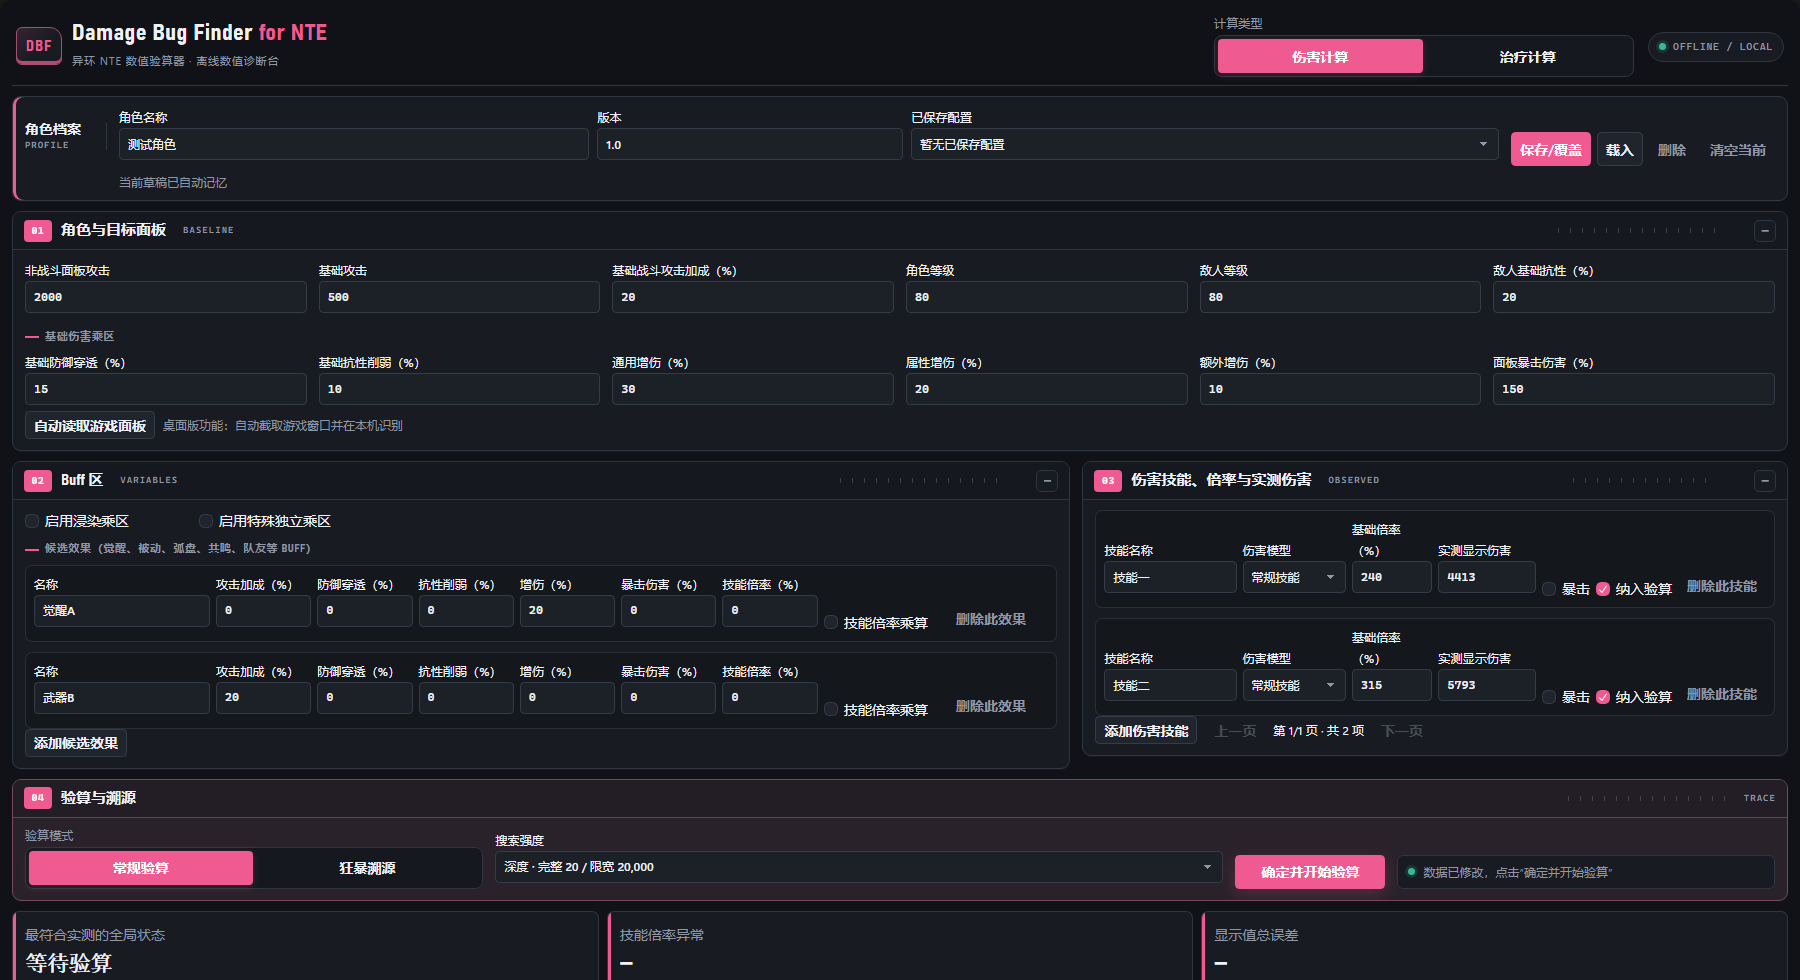
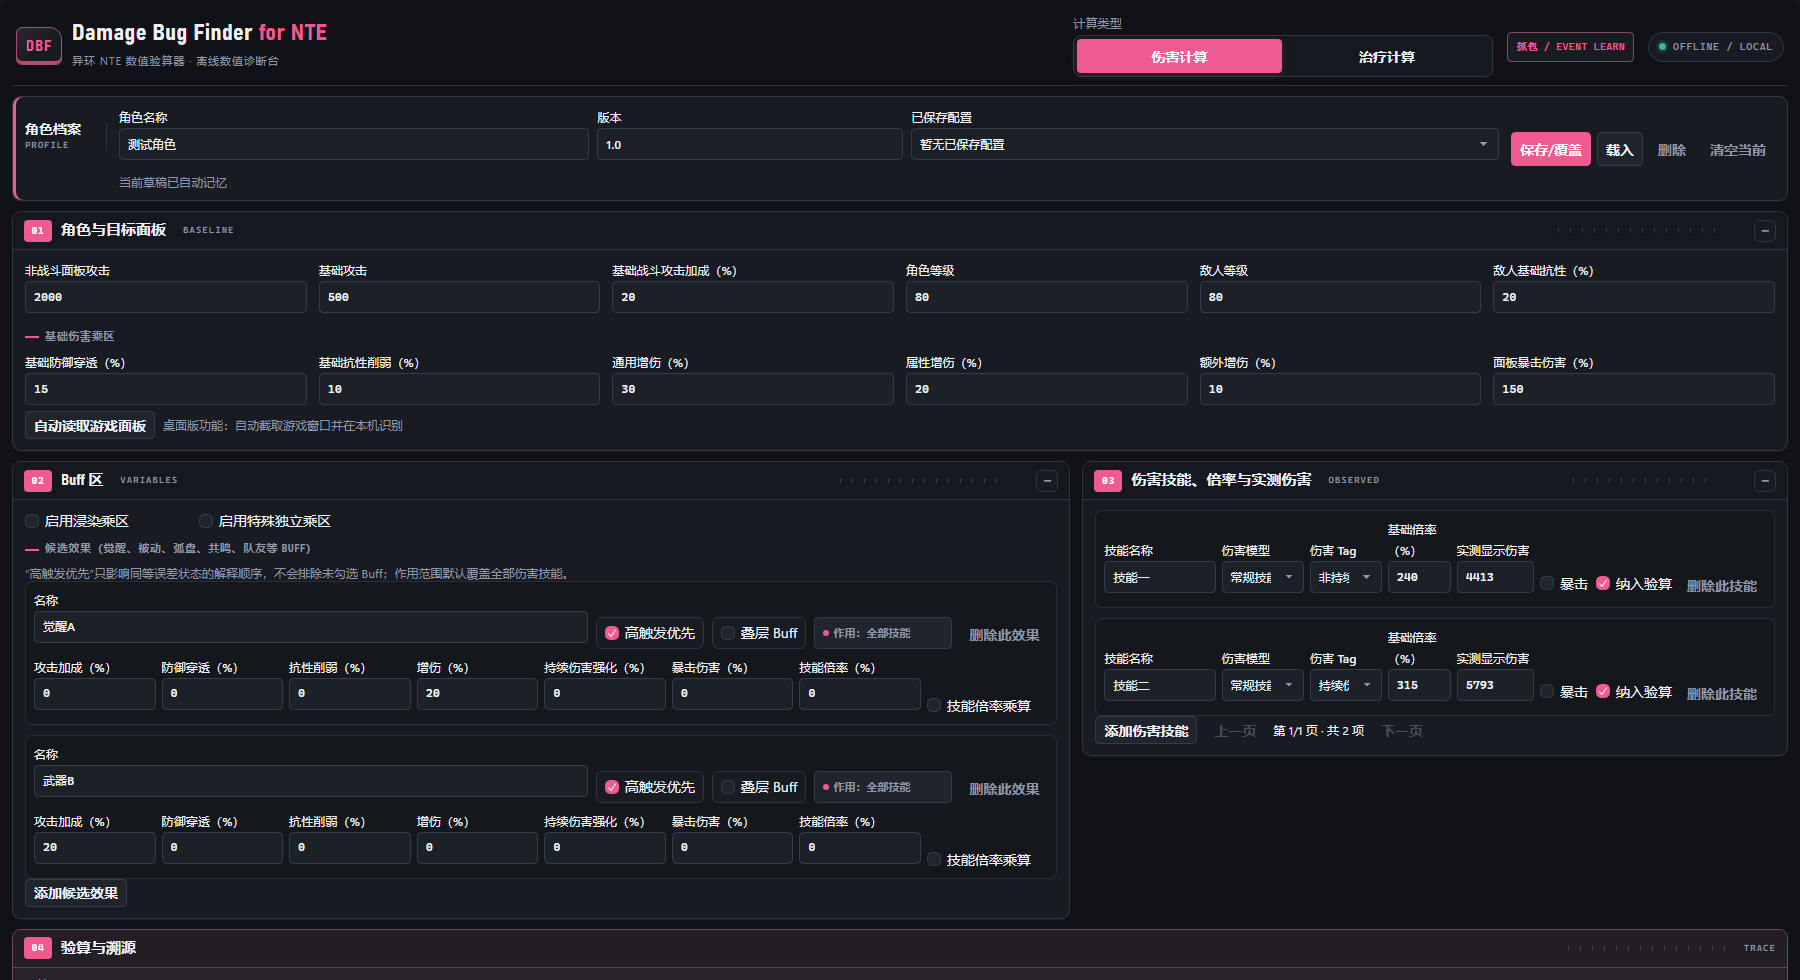
Add files via upload

diff --git a/docs/formulas.md b/docs/formulas.md
@@ -65,13 +65,15 @@ FusionStrength = BaseFusionStrength × (1 + Σ FusionPercentBonus)
 
 `BaseFusionStrength` 是非战斗面板值，合法范围为 `0～360`。该上限不限制觉醒、武器等 Buff 作用后的 `FusionStrength` 最终值。
 
-启用浸染时：
+启用浸染或覆纹时，两者使用同一个独立乘区；一次验算只选择其中一种：
 
 ```text
-Infusion = 1.2 × FusionStrength / 600
+SpecialBonus = 20% + FusionStrength / 1400
+InfusionOrOverlay = 1 + SpecialBonus
+                  = 1.2 + FusionStrength / 1400
 ```
 
-未启用浸染时 `Infusion = 1`。特殊独立乘区直接填写倍数；未启用时为 `1`。
+其中 `FusionStrength` 是本次验算假设下的最终环合强度，包含当前生效 Buff 提供的百分比提升和固定数值提升；它不是只读取基础面板值。未启用浸染或覆纹时 `InfusionOrOverlay = 1`。
 
 游戏面板显示的是额外暴击伤害，计算器输入框和 OCR 均保留这个面板原值。实际暴击倍率为：
 
@@ -91,8 +93,7 @@ NormalDamage = A_combat
                × Resistance
                × DamageBonus
                × SkillMultiplier
-               × Infusion
-               × SpecialIndependentMultiplier
+               × InfusionOrOverlay
 ```
 
 暴击：
@@ -106,8 +107,9 @@ CriticalDamage = NormalDamage × CriticalDamageMultiplier
 非暴击：
 
 ```text
-CreationDamage = 9000 × Defense × Resistance
+CreationDamage = 9000 × 1 × Defense × Resistance
                  × (1 + FusionStrength / 600)
+                 × ExplicitReactionDamageBonus
 ```
 
 暴击：
@@ -116,7 +118,72 @@ CreationDamage = 9000 × Defense × Resistance
 CriticalCreationDamage = CreationDamage × CriticalDamageMultiplier
 ```
 
-创生花不读取面板攻击、常规增伤区、普通技能倍率、浸染乘区或特殊独立乘区。
+创生花不读取面板攻击、默认常规增伤区、普通技能倍率、持续伤害强化、浸染或覆纹乘区。
+
+## 浊燃伤害
+
+浊燃与创生花使用相同的防御、抗性和环合强度修正，但固定基础值为 `2700`，并且可以暴击。浊燃固定视为持续伤害。
+
+```text
+TurbidDamage = 2700 × 1 × Defense × Resistance
+               × (1 + FusionStrength / 600)
+               × (1 + ActiveDamageOverTimeBonus)
+               × ExplicitReactionDamageBonus
+
+CriticalTurbidDamage = TurbidDamage × CriticalDamageMultiplier
+```
+
+浊燃不读取面板攻击、默认常规增伤区、普通技能倍率、浸染或覆纹乘区。
+
+## 黯星伤害
+
+黯星固定基础值为 `45000`，防御乘区始终为 `1`，即无视角色、敌人等级与防御穿透变化：
+
+```text
+DarkstarDamage = 45000 × 1 × Resistance
+                 × (1 + FusionStrength / 600)
+                 × ExplicitReactionDamageBonus
+
+CriticalDarkstarDamage = DarkstarDamage × CriticalDamageMultiplier
+```
+
+黯星不读取面板攻击、普通技能倍率、持续伤害强化、浸染或覆纹乘区。
+
+## 环合反应的指定增伤
+
+创生花、浊燃和黯星默认都不读取面板与“作用全部技能”的常规增伤。只有把某个 Buff 的作用范围设为“自定义技能”，并明确勾选对应环合反应时，该 Buff 的“增伤”字段才形成：
+
+```text
+ExplicitReactionDamageBonus = 1 + Σ ExplicitlySelectedDamageBonus
+```
+
+“全部技能”“仅持续伤害”或“仅非持续伤害”不会触发这个覆盖规则。攻击加成、普通技能倍率、浸染和覆纹乘区即使来自同一个 Buff，也仍不进入环合反应公式。
+
+## 持续伤害 Tag 与 Buff 作用范围
+
+“持续伤害”是常规伤害的 Tag，计算公式与其他常规技能完全相同。它可以作为 Buff 作用范围条件。
+
+每个 Buff 可配置为：全部伤害技能、仅持续伤害、仅非持续伤害或自定义技能。Buff 的全局生效/失效状态仍由整批数据共同决定；若该 Buff 生效，它的数值只会加入符合所设范围的技能。环合反应仍先遵守各自的乘区白名单，只有上节所述的“自定义点名增伤”可以覆盖默认增伤排除。
+
+搜索维度会在验算前按公式白名单裁剪。某个 Buff 属性必须至少影响一个已启用的验算技能或狂暴溯源候选来源，才会进入排列。例如只验算浊燃时，Buff 中的攻击、普通技能倍率和非自定义点名增伤不会生成无意义的生效/失效组合；作用范围不覆盖任何当前技能的 Buff 也会被跳过。
+
+## 叠层 Buff
+
+普通 Buff 默认仍按单次效果处理。只有开启“叠层 Buff”后，该行所有非零属性才解释为每层数值，并共享同一个层数：
+
+```text
+StackedComponentValue = PerStackValue × ActiveStackCount
+```
+
+技能倍率选择乘算时，同一叠层 Buff 先合并层数，再形成一个独立乘算项：
+
+```text
+StackedMultiplicativeSkillBonus = 1 + PerStackBonus × ActiveStackCount
+```
+
+因此每层提高 6%、当前 4 层时为 `1 + 0.06 × 4 = 1.24`，不会计算为 `1.06^4`。不同 Buff 的乘算项仍互相连乘。
+
+“自动反推”把 `0～最大层数` 作为互斥离散状态；“固定层数”只比较指定层数正常生效和整项未生效。高触发优先只倾向层数大于 0，不强制偏向满层；测量误差始终优先于该偏好。若 Buff 设为“锁定生效”，自动反推范围改为 `1～最大层数`；固定层数最低为 1。
 
 ## 治疗量
 
@@ -124,7 +191,7 @@ CriticalCreationDamage = CreationDamage × CriticalDamageMultiplier
 Healing = A_combat × HealingMultiplier × (1 + HealingBonus)
 ```
 
-`HealingBonus` 为基础治疗加成与已生效觉醒、武器等候选治疗加成之和。伤害技能和治疗技能分别记录、分别计算；治疗不读取防御、抗性、增伤、暴击、浸染或特殊独立乘区。
+`HealingBonus` 为基础治疗加成与已生效觉醒、武器等候选治疗加成之和。伤害技能和治疗技能分别记录、分别计算；治疗不读取防御、抗性、增伤、暴击、浸染或覆纹乘区。
 
 ## 精确值和显示值
 
@@ -138,7 +205,7 @@ DisplayedValue = round(ExactValue)
 
 ## 结果字段与状态排序
 
-一次验算中的“全局状态”包含所有基础乘区、觉醒和武器效果的生效/失效假设。同一候选全局状态会用于本批全部实测数据，而不是为每条实测值分别切换增益。
+一次验算中的“全局状态”会用于本批全部实测数据，而不是为每条实测值分别切换增益。常规伤害与治疗验算固定基础区，只反推相关 Buff；狂暴溯源才额外包含相关基础乘区的生效/失效假设。
 
 单项显示值误差：
 
@@ -152,31 +219,35 @@ ItemError = |round(ExactValue) - ObservedValue|
 
 1. 超过 ±20 或没有来源的条目数更少；
 2. `Σ(ItemError / max(1, ObservedValue))` 更小；
-3. 基础乘区失效数更少；
+3. 基础乘区失效数更少（仅狂暴溯源存在此维度）；
 4. 误用其他技能倍率的条目数更少；
-5. 觉醒和武器效果失效数更少。
+5. Buff 优先级违背值更小；
+6. 觉醒和武器效果失效数更少。
 
 常规验算只汇报全部条目均满足 ±20 的状态。狂暴溯源先选择无来源条目最少的状态，再比较其余排序项；超限条目会显示为“无来源”，不会强行给出差距很大的匹配。
 
 顶部“最符合实测的全局状态”始终显示排序第一的解释，因此在没有完美匹配时也能用于诊断。右侧“零误差全局状态”只显示 `TotalDisplayError = 0` 且没有无来源条目的状态；带误差的备选解释不会列出。该顺序是规则驱动的解释优先级，不代表经过统计建模得到的概率。
 
+“高触发优先”不会改变搜索空间，也不会把未勾选 Buff 当作默认失效。搜索仍从全部生效开始；只有在误差、基础失效和倍率来源等主要条件相同的解释之间，程序才更优先保留已勾选 Buff 生效的状态。完整失效一个勾选 Buff 的优先级违背权重为 `2`，未勾选 Buff 为 `1`；部分失效按该 Buff 失效项占比计算。
+
+Buff 的验算状态是更强的约束：`参与搜索`保留原有组合逻辑；`锁定生效`强制所有相关属性进入公式；`挂起排除`不创建原子和搜索维度。锁定或挂起时，“高触发优先”不再参与该 Buff 的排序。
+
 ## 失效假设
 
-反向验算会考虑：
+常规验算会考虑与当前公式相关的 Buff 生效、部分失效、叠层层数及技能倍率误用。只有狂暴溯源额外考虑与候选来源公式相关的基础区失效：
 
 - 基础攻击加成未生效；
 - 基础防御穿透未生效；
 - 基础抗性削弱未生效；
 - 通用、属性或额外增伤未生效；
 - 基础暴击伤害未生效；
-- 基础环合强度、环合强度百分比提升或固定提升未生效；
-- 浸染、特殊独立或创生花环合强度修正未生效；
-- 基础治疗加成或候选治疗加成未生效；
-- 防御区、抗性区、增伤区、暴击区、技能倍率区或治疗加成区整体未生效；
-- 觉醒和武器的各项提升全部失效或部分失效；
-- 技能读取了其他已记录技能的倍率。
+- 基础环合强度未生效；
+- 浸染 / 覆纹独立乘区未生效；
+- 防御区、抗性区、增伤区、暴击区、技能倍率区或环合修正区整体未生效。
 
-搜索默认从所有基础乘区、觉醒和武器效果全部生效的状态开始，再逐项排除。
+觉醒和武器等 Buff 的全部失效、部分失效仍由常规验算与狂暴溯源共同检查，但挂起 Buff 会跳过，锁定 Buff 不允许失效。
+
+搜索默认从相关基础乘区和参与搜索的 Buff 全部生效、叠层 Buff 满层的状态开始，再按模式与约束逐项排除。常规模式的基础区以及锁定 Buff 始终保持生效。
 
 ## 搜索覆盖范围
 
@@ -188,6 +259,6 @@ ItemError = |round(ExactValue) - ObservedValue|
 | 深度 | 20 | 20,000 |
 | 极限 | 22 | 50,000 |
 
-判断项数量不超过对应上限时，程序会评估全部 `2^N` 个全局状态。为了控制内存，只在线保留排序最好的 300 个解释；排名第一和界面显示的零误差候选仍来自完整状态空间。
+普通二元判断项产生 `2^N` 个状态；每个自动叠层 Buff 额外乘以 `(最大层数 + 1)`。例如 10 个普通判断项与一个最多 6 层的 Buff 共 `2^10 × 7 = 7168` 个状态。总状态数不超过所选档位对应的 `2^上限` 时，程序会完整枚举。为了控制内存，只在线保留排序最好的 300 个解释。
 
-判断项数量超过上限时，程序从“全部生效”开始逐项移除判断项，并在每一层保留最优的限宽路径。这种搜索不是完整枚举，不能保证覆盖全部理论状态。
+总状态数超过上限时，程序从“普通 Buff 全生效、叠层 Buff 满层”开始逐维搜索，并在每一层保留最优的限宽路径。每个层数仍作为一个整体候选参与比较；限宽搜索不是完整枚举，不能保证覆盖全部理论状态。

diff --git a/docs/CAPTURE_INTEGRATION.md b/docs/CAPTURE_INTEGRATION.md
@@ -1,0 +1,50 @@
+# 抓包接入设计
+
+## 第一阶段：标准 Sidecar（当前实现）
+
+计算器通过 JSON-RPC 2.0 / NDJSON 启动用户指定的：
+
+```text
+nte-core.exe serve --stdio --data-dir <本机应用数据目录>
+```
+
+完成 `core.hello`、`capture.detect` 和 `capture.start` 后，消费 `event.battle.summary`，同时显式使用 `raw_capture: enabled`。Core 通过 `core.status.raw_capture_path` 返回本机 PCAPNG 路径，计算器只增量读取已经完整写入的数据块，不重复扫描整个文件。
+
+战斗摘要是累计值。桌面桥按角色、技能名称、类别、Ability、GameplayEffect 和追加伤害标记建立稳定键，再用相邻摘要的 Hit 与伤害差值产生事件组。
+
+- Hit 差值为 1：可作为一条实测显示伤害。
+- Hit 差值大于 1：只能视为短间隔多段合计，不允许自动拆分。
+- `Reaction_1`：创生花候选。
+- `Reaction_5`：浊燃候选。
+
+人工确认的“来源事件 → 计算器技能”关系按角色和版本保存在浏览器本地存储。测试服出现未知 GA/GE 时，不依赖旧数据库也能建立新映射。
+
+## 标准接口的边界
+
+标准 Sidecar 明确不通过 stdout 输出逐击、PacketDebug、payload、端点或 PCAP 内容，战斗摘要也没有可靠的暴击标记。计算器的本机 PCAP 适配器只保留经过连续 UE 包序号确认的游戏流，从 8 种位对齐中发现 `Melee`、`Skill`、`Reaction`、`CritDamage`、`GA_`、`GE_` 等可读名称；原始载荷和网络端点不会进入前端。
+
+事件前后 `-0.12..+0.35` 秒内近似整数的浮点值只作为“候选数值”。用户填写游戏显示伤害后，前端按 `±20` 过滤和排序；在新伤害结构得到确认前，不得将候选值自动标记为正式 damage、critical 或 segment 字段。
+
+标准接口仍不包含 GameplayEffect 的 apply/remove/stack 生命周期，因此当前版本不能声称已经自动读取 Buff。
+
+Buff 数值、作用技能、叠层规则及候选生效状态仍由计算器维护。这样即使测试服数据尚未进入公开数据库，验算功能也不受影响。
+
+## 第二阶段：测试服事件学习适配器（预留）
+
+后续若有合法可用的逐击/效果事件源，应通过独立适配器输出最小化的本地事件，不改动公式层：
+
+```json
+{"kind":"damage","event_id":"...","ability":"GA_...","effect":"GE_...","value":4413,"critical":null,"segment":null}
+{"kind":"effect_apply","event_id":"...","effect":"GE_...","target":"self","stacks":1}
+{"kind":"effect_stack","event_id":"...","effect":"GE_...","stacks":4}
+{"kind":"effect_remove","event_id":"...","effect":"GE_...","target":"self"}
+```
+
+设计约束：
+
+1. 未知字段使用 `null`，不得从伤害值强行猜测暴击、段数或 Buff。
+2. 原始 payload、账号身份和网络端点不进入计算器。
+3. 多段技能先保留逐击，再由测试员选择某一段或手工建立分段规则。
+4. Buff 事件只能收窄候选状态，数值仍以测试员填写的文本描述为准。
+5. 第三方 AGPL 组件与本项目 MIT 代码保持独立进程及独立分发。
+6. 原始 PCAP 只保存在 `%LOCALAPPDATA%\GameDamageCalculator\capture`，不应提交到仓库、公开 Issue 或测试报告。
